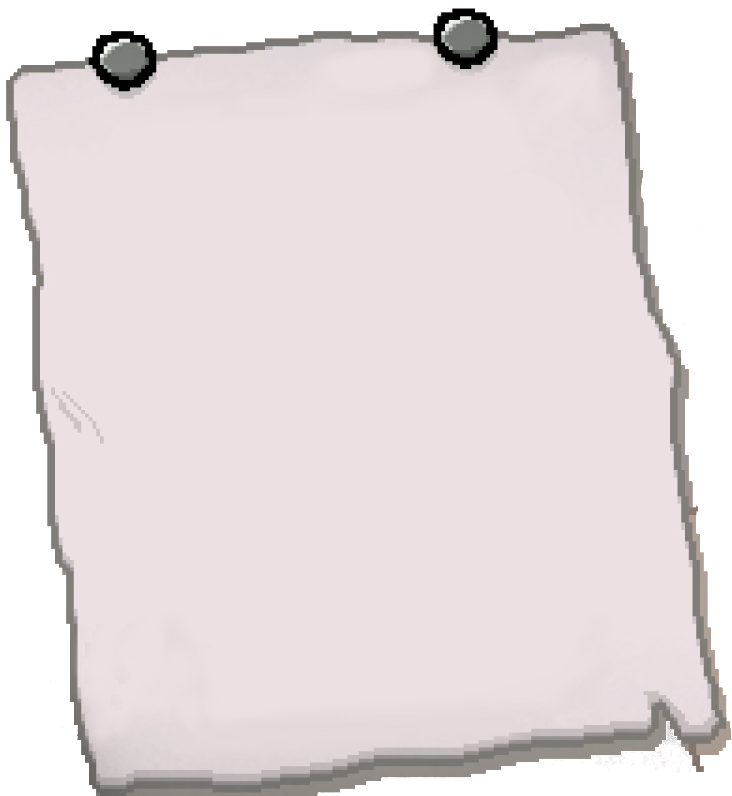
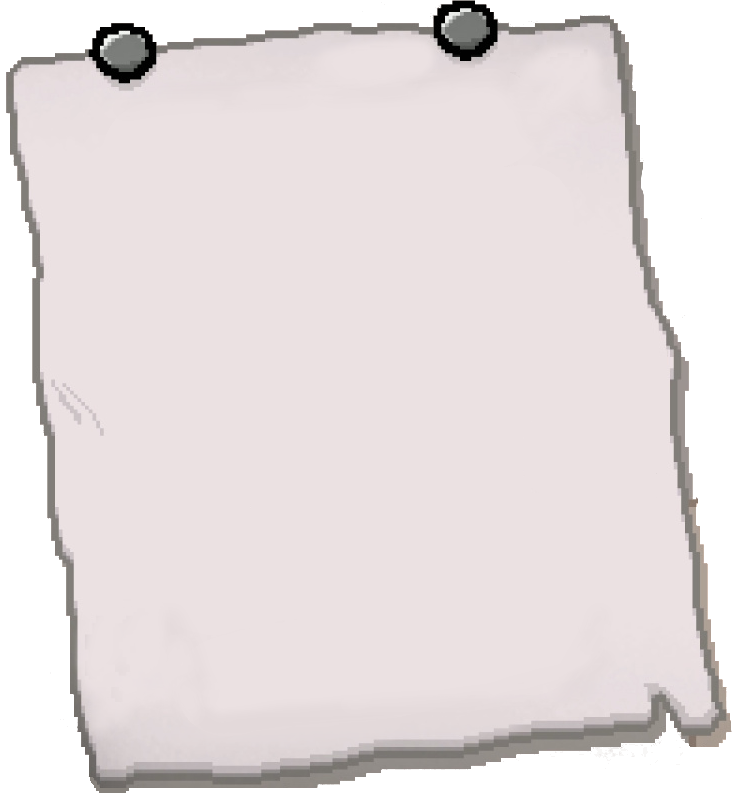
add: small design change + new background

diff --git a/frontend/src/routes/style.sass b/frontend/src/routes/style.sass
@@ -2,8 +2,21 @@
     font-family: "isaac"
     src: url(../routes/assets/font/isaac_bold.ttf)
 
+#shadow 
+    position: fixed
+    top: 0
+    left: 0
+    width: 100vw
+    height: 100%
+    background-image: url("../static/assets/background/shadow.png")
+    background-size: cover
+    background-position: center
+    background-repeat: no-repeat
+    z-index: 1
+    pointer-events: none
+
 body, html
-    background-image: url("../routes/assets/images/home/background.png")
+    background-image: url("../static/assets/background/background_home.png")
     background-position: center
     background-repeat: no-repeat
     background-size: cover
@@ -48,17 +61,11 @@ body, html
                 align-items: center
                 position: relative
 
-                #sheet-image
-                    width: 44%
-                    display: flex
-                    justify-content: center
-                    align-items: center
-
                 #selection-mode
                     position: absolute
                     left: 24%
                     top: 0%
-                    width: 41%
+                    width: 35%
                     height: 85%
                     max-width: 100%
                     max-height: 100%
@@ -75,7 +82,7 @@ body, html
                         color: rgb(69, 57, 59)
                         cursor: pointer
                         font-family: isaac
-                        font-size: 5vw
+                        font-size: 5rem
                         text-decoration: none
                         border: none
                         transition: transform 0.3s ease
@@ -85,12 +92,16 @@ body, html
                         cursor: not-allowed
 
             #login-container
+                background-image: url("../static/assets/pong/player-sheet.png")
+                background-size: cover
+                background-position: center
+                background-repeat: no-repeat
                 position: absolute
                 top: 28%
                 left: 6%
+                min-width: 280px
                 width: 15%
-                height: 32%
-                rotate: 2deg
+                height: 35%
                 display: flex
                 flex-direction: column-reverse
                 align-content: center
@@ -100,20 +111,35 @@ body, html
                 overflow: hidden
                 text-overflow: ellipsis
                 z-index: 1111
-
+                &::after
+                    content: ''
+                    position: absolute
+                    top: 0
+                    left: 0
+                    width: 100%
+                    height: 100%
+                    background: inherit
+                    z-index: 2
+                    pointer-events: none
+                img
+                    width: 70%
+                    height: 70%
+                    position: relative
+                    z-index: 2
                 button
+                    position: absolute
+                    left:18%
+                    top: 71%
+                    rotate: 7deg
                     background-color: transparent
                     font-family: isaac
                     transition: transform 0.3s ease
-                    font-size: 2vw
+                    font-size: 1.8vw
                     border: none
+                    z-index: 3
                     color: #313131
-
                 button:hover
                     transform: scale(1.2)
-
-                img
-                    width: 50%
 
             #popin-container
                 display: none

diff --git a/frontend/src/routes/style.css b/frontend/src/routes/style.css
@@ -2,8 +2,22 @@
   font-family: "isaac";
   src: url(../routes/assets/font/isaac_bold.ttf);
 }
+#shadow {
+  position: fixed;
+  top: 0;
+  left: 0;
+  width: 100vw;
+  height: 100%;
+  background-image: url("../static/assets/background/shadow.png");
+  background-size: cover;
+  background-position: center;
+  background-repeat: no-repeat;
+  z-index: 1;
+  pointer-events: none;
+}
+
 body, html {
-  background-image: url("../routes/assets/images/home/background.png");
+  background-image: url("../static/assets/background/background_home.png");
   background-position: center;
   background-repeat: no-repeat;
   background-size: cover;
@@ -48,17 +62,11 @@ body #page-container #page-content #sheet, html #page-container #page-content #s
   align-items: center;
   position: relative;
 }
-body #page-container #page-content #sheet #sheet-image, html #page-container #page-content #sheet #sheet-image {
-  width: 44%;
-  display: flex;
-  justify-content: center;
-  align-items: center;
-}
 body #page-container #page-content #sheet #selection-mode, html #page-container #page-content #sheet #selection-mode {
   position: absolute;
   left: 24%;
   top: 0%;
-  width: 41%;
+  width: 35%;
   height: 85%;
   max-width: 100%;
   max-height: 100%;
@@ -75,7 +83,7 @@ body #page-container #page-content #sheet #selection-mode .button, html #page-co
   color: rgb(69, 57, 59);
   cursor: pointer;
   font-family: isaac;
-  font-size: 5vw;
+  font-size: 5rem;
   text-decoration: none;
   border: none;
   transition: transform 0.3s ease;
@@ -85,12 +93,16 @@ body #page-container #page-content #sheet #selection-mode .disabled, html #page-
   cursor: not-allowed;
 }
 body #page-container #page-content #login-container, html #page-container #page-content #login-container {
+  background-image: url("../static/assets/pong/player-sheet.png");
+  background-size: cover;
+  background-position: center;
+  background-repeat: no-repeat;
   position: absolute;
   top: 28%;
   left: 6%;
+  min-width: 280px;
   width: 15%;
-  height: 32%;
-  rotate: 2deg;
+  height: 35%;
   display: flex;
   flex-direction: column-reverse;
   align-content: center;
@@ -101,19 +113,38 @@ body #page-container #page-content #login-container, html #page-container #page-
   text-overflow: ellipsis;
   z-index: 1111;
 }
+body #page-container #page-content #login-container::after, html #page-container #page-content #login-container::after {
+  content: "";
+  position: absolute;
+  top: 0;
+  left: 0;
+  width: 100%;
+  height: 100%;
+  background: inherit;
+  z-index: 2;
+  pointer-events: none;
+}
+body #page-container #page-content #login-container img, html #page-container #page-content #login-container img {
+  width: 70%;
+  height: 70%;
+  position: relative;
+  z-index: 2;
+}
 body #page-container #page-content #login-container button, html #page-container #page-content #login-container button {
+  position: absolute;
+  left: 18%;
+  top: 71%;
+  rotate: 7deg;
   background-color: transparent;
   font-family: isaac;
   transition: transform 0.3s ease;
-  font-size: 2vw;
+  font-size: 1.8vw;
   border: none;
+  z-index: 3;
   color: #313131;
 }
 body #page-container #page-content #login-container button:hover, html #page-container #page-content #login-container button:hover {
   transform: scale(1.2);
-}
-body #page-container #page-content #login-container img, html #page-container #page-content #login-container img {
-  width: 50%;
 }
 body #page-container #page-content #popin-container, html #page-container #page-content #popin-container {
   display: none;

diff --git a/frontend/src/routes/page.html b/frontend/src/routes/page.html
@@ -1,8 +1,8 @@
+<div id="shadow"></div>
 <div id="page-container">
 	<div id="page-content">
-		<img src="../routes/assets/images/home/login_sheet.png" alt="Log sheet" id="log-sheet"/>
 		<div id="sheet">
-			<img src="../routes/assets/images/home/sheet.png" id="sheet-image" alt="Sheet Image"/>
+			<img src="../routes/assets/images/home/sheet2.png" id="sheet-image" alt="Sheet Image"/>
 			<div id="selection-mode">
 				<a href="/character" class="button" id="local">LOCAL</a>
 				<a href="" class="button disabled" id="online">ONLINE</a>

diff --git a/frontend/src/routes/flappy/style.css b/frontend/src/routes/flappy/style.css
@@ -76,7 +76,7 @@
     height: 100%;
     background: inherit; 
     z-index: 2; 
-    pointer-events: none; /
+    pointer-events: none;
 }
 .user_picture img {
 	margin-top: 40px;
